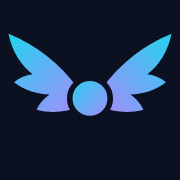
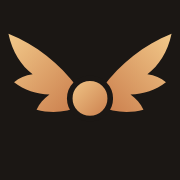
Use Aracne's colour palette across the whole site
CV, homelab and TFG (css/style.css): dark sepia at night and cream by
day, with Aracne's brown, amber and olive accents; the space photo is
toned sepia and the hero stars are cream/sepia (stack logos keep their
brand colours). Hermes switches to the same palette and takes its slot
colours from Aracne's status colours (Perfil is olive now). Fog,
favicon set, backlit logo, the hidden gate's wings and the theme-color
metas follow suit. Stylesheet version bumped.

Claude-Session: https://claude.ai/code/session_01HtGacBJGJVCiw1Z5b64gJd

Changed region(s): [[0.0278, 0.1667, 0.9722, 0.6667]]

diff --git a/css/style.css b/css/style.css
@@ -3,18 +3,19 @@
    ========================================================================== */
 
 :root {
-	--bg: #0b1120;
-	--bg-alt: #0f172a;
-	--surface: rgba(17, 26, 46, 0.78);
-	--surface-2: rgba(22, 33, 58, 0.85);
-	--border: rgba(51, 65, 99, 0.6);
-	--veil: rgba(8, 12, 24, 0.7);
-	--text: #e2e8f0;
-	--text-muted: #94a3b8;
-	--accent: #22d3ee;
-	--accent-2: #a78bfa;
-	--ok: #4ade80;
-	--accent-soft: rgba(34, 211, 238, 0.12);
+	/* Gama de Aracne: sepia oscuro de noche, crema de día; acentos marrón, ámbar y oliva */
+	--bg: #1b1714;
+	--bg-alt: #221d19;
+	--surface: rgba(36, 31, 27, 0.82);
+	--surface-2: rgba(42, 36, 32, 0.88);
+	--border: rgba(110, 90, 74, 0.45);
+	--veil: rgba(20, 16, 13, 0.74);
+	--text: #efe6dc;
+	--text-muted: #b3a597;
+	--accent: #d8a77f;
+	--accent-2: #e0b06a;
+	--ok: #9cc183;
+	--accent-soft: rgba(216, 167, 127, 0.12);
 	--shadow: 0 10px 30px -12px rgba(0, 0, 0, 0.6);
 
 	--radius: 14px;
@@ -25,19 +26,19 @@
 
 @media (prefers-color-scheme: light) {
 	:root {
-		--bg: #f8fafc;
-		--bg-alt: #f1f5f9;
-		--surface: rgba(255, 255, 255, 0.86);
-		--surface-2: rgba(241, 245, 249, 0.9);
-		--border: rgba(203, 213, 225, 0.8);
-		--veil: rgba(248, 250, 252, 0.85);
-		--text: #0f172a;
-		--text-muted: #475569;
-		--accent: #0891b2;
-		--accent-2: #7c3aed;
-		--ok: #16a34a;
-		--accent-soft: rgba(8, 145, 178, 0.1);
-		--shadow: 0 10px 30px -14px rgba(15, 23, 42, 0.18);
+		--bg: #f5efe8;
+		--bg-alt: #ede5db;
+		--surface: rgba(253, 251, 248, 0.86);
+		--surface-2: rgba(237, 229, 219, 0.9);
+		--border: rgba(221, 210, 197, 0.9);
+		--veil: rgba(245, 239, 232, 0.86);
+		--text: #2b2421;
+		--text-muted: #6d6058;
+		--accent: #8a5a3c;
+		--accent-2: #a06a24;
+		--ok: #5d7a46;
+		--accent-soft: rgba(138, 90, 60, 0.1);
+		--shadow: 0 10px 30px -14px rgba(60, 40, 25, 0.25);
 	}
 }
 
@@ -59,7 +60,7 @@ html::-webkit-scrollbar-track { background: var(--bg); }
 ::-webkit-scrollbar-thumb:horizontal { background: linear-gradient(90deg, var(--accent), var(--accent-2)) padding-box; }
 ::-webkit-scrollbar-thumb:hover { border-width: 2px; }
 ::-webkit-scrollbar-corner { background: transparent; }
-/* Firefox no admite degradados: pulgar cian sobre el fondo */
+/* Firefox no admite degradados: pulgar del color de acento sobre el fondo */
 @supports (-moz-appearance: none) {
 	:root { scrollbar-width: thin; scrollbar-color: var(--accent) var(--bg); }
 }
@@ -70,7 +71,7 @@ body::after { content: ""; position: fixed; pointer-events: none; }
 body::before {
 	inset: -24px; z-index: -3;
 	background: url("../images/space-bg.jpg") center / cover no-repeat;
-	filter: blur(3px) saturate(1.15);
+	filter: blur(3px) sepia(.65) saturate(.85);   /* la foto del espacio, en sepia */
 }
 body::after {
 	inset: 0; z-index: -2;
@@ -145,7 +146,7 @@ svg.filled { fill: currentColor; stroke: none; }
 /* Logo: silueta a contraluz (luz cian/violeta por detrás) */
 .logo-mark.logo-backlit {
 	width: 38px; height: 38px; padding: 0; overflow: hidden;
-	background: radial-gradient(circle at 50% 40%, rgba(34, 211, 238, .30), rgba(167, 139, 250, .16) 48%, transparent 74%), var(--surface-2);
+	background: radial-gradient(circle at 50% 40%, rgba(242, 201, 138, .34), rgba(201, 123, 74, .18) 48%, transparent 74%), var(--surface-2);
 }
 .logo-backlit img { display: block; width: 100%; height: 100%; object-fit: contain; }
 
@@ -745,12 +746,12 @@ code { font-family: var(--mono); font-size: 0.86em; background: var(--surface-2)
 /* Evolución del homelab (gráfico de RAM por nodo + hitos) */
 .evo {
 	--s0: #3987e5; --s1: #d95926; --s2: #199e70; --s3: #c98500;
-	--grid: rgba(148, 163, 184, 0.14); --axis: rgba(148, 163, 184, 0.35);
+	--grid: rgba(179, 165, 151, 0.14); --axis: rgba(179, 165, 151, 0.35);
 	position: relative; margin: 0; padding: 20px; border-radius: 20px;
 	background: var(--surface); border: 1px solid var(--border);
 }
 @media (prefers-color-scheme: light) {
-	.evo { --s0: #2a78d6; --s1: #eb6834; --s2: #1baf7a; --s3: #eda100; --grid: rgba(15, 23, 42, 0.08); --axis: rgba(15, 23, 42, 0.25); }
+	.evo { --s0: #2a78d6; --s1: #eb6834; --s2: #1baf7a; --s3: #eda100; --grid: rgba(43, 36, 33, 0.08); --axis: rgba(43, 36, 33, 0.25); }
 }
 .evo .s-0 { fill: var(--s0); background: var(--s0); }
 .evo .s-1 { fill: var(--s1); background: var(--s1); }

diff --git a/hermes/index.html b/hermes/index.html
@@ -5,7 +5,7 @@
 	<meta name="viewport" content="width=device-width, initial-scale=1, viewport-fit=cover" />
 	<title>Hermes · Selector de destinos</title>
 	<meta name="description" content="Hermes: el selector de destinos de Daniel Carballo. Elige en la rueda a dónde ir: Aracne, el perfil o cualquier web que añadas." />
-	<meta name="theme-color" content="#0b1120" media="(prefers-color-scheme: dark)" />
+	<meta name="theme-color" content="#1b1714" media="(prefers-color-scheme: dark)" />
 	<meta name="theme-color" content="#f5efe8" media="(prefers-color-scheme: light)" />
 	<link rel="icon" href="/favicon.ico" sizes="48x48" />
 	<link rel="icon" href="/favicon.svg" type="image/svg+xml" />
@@ -15,23 +15,28 @@
 	<link rel="preconnect" href="https://fonts.gstatic.com" crossorigin />
 	<link href="https://fonts.googleapis.com/css2?family=Cormorant+Garamond:ital,wght@0,500;0,600;1,400;1,500&family=Inter:wght@400;500;600&family=JetBrains+Mono:wght@400;500;700&display=swap" rel="stylesheet" />
 	<style>
-		/* Hermes: la noche del CV (cian/violeta, mono) tejida con la telaraña y la serif de Aracne.
-		   Modo claro = el crema de Aracne. */
+		/* Hermes: la gama de Aracne (sepia de noche, crema de día), su telaraña y su serif, con el
+		   prompt en mono del CV. */
 		:root {
-			--bg: #0b1120;
-			--bg-2: #0f172a;
-			--text: #e2e8f0;
-			--muted: #94a3b8;
-			--accent: #22d3ee;
-			--accent-2: #a78bfa;
-			--amber: #e3b787;
-			--web: rgba(148, 163, 184, 0.16);
-			--web-strong: rgba(148, 163, 184, 0.34);
-			--seg: rgba(17, 26, 46, 0.72);
-			--seg-line: rgba(148, 163, 184, 0.28);
-			--hub: rgba(11, 17, 32, 0.92);
-			--star: 226, 232, 240;
-			--fog: 120, 138, 168;      /* niebla gris azulada sobre la noche */
+			/* Gama de Aracne (sepia oscuro); los colores de las porciones salen de sus estados */
+			--bg: #1b1714;
+			--bg-2: #241f1b;
+			--text: #efe6dc;
+			--muted: #b3a597;
+			--accent: #d8a77f;
+			--accent-2: #e0b06a;
+			--amber: #e0b06a;
+			--olive: #9cc183;
+			--blue: #7fc0de;
+			--violet: #bba3e6;
+			--rose: #e58a7d;
+			--web: rgba(179, 165, 151, 0.16);
+			--web-strong: rgba(179, 165, 151, 0.34);
+			--seg: rgba(36, 31, 27, 0.74);
+			--seg-line: rgba(179, 165, 151, 0.28);
+			--hub: rgba(27, 23, 20, 0.92);
+			--star: 243, 227, 207;
+			--fog: 150, 135, 120;      /* niebla cálida sobre el sepia */
 			--fog-alpha: .30;
 			--shadow: 0 20px 60px -24px rgba(0, 0, 0, 0.8);
 			--serif: "Cormorant Garamond", Garamond, "Times New Roman", serif;
@@ -45,9 +50,13 @@
 				--bg-2: #ede5db;
 				--text: #2b2421;
 				--muted: #6d6058;
-				--accent: #0e7490;
-				--accent-2: #7c3aed;
-				--amber: #8a5a3c;
+				--accent: #8a5a3c;
+				--accent-2: #a06a24;
+				--amber: #a06a24;
+				--olive: #5d7a46;
+				--blue: #2c6e8f;
+				--violet: #7756a8;
+				--rose: #a6473b;
 				--web: rgba(110, 88, 70, 0.18);
 				--web-strong: rgba(80, 62, 50, 0.36);
 				--seg: rgba(253, 251, 248, 0.82);
@@ -275,9 +284,9 @@
 	/* Destinos fijos. Añade aquí los que quieras en todos tus dispositivos. */
 	const DEFAULTS = [
 		{ id: "aracne", name: "Aracne", url: "../aracne/", desc: "Crawling the web for work: tu panel de ofertas y candidaturas.", icon: "spider", color: "amber" },
-		{ id: "perfil", name: "Perfil", url: "../", desc: "Daniel Carballo Reyes · ingeniero de telecomunicación: CV, proyectos y contacto.", icon: "user", color: "cyan" },
+		{ id: "perfil", name: "Perfil", url: "../", desc: "Daniel Carballo Reyes · ingeniero de telecomunicación: CV, proyectos y contacto.", icon: "user", color: "green" },
 	];
-	const COLORS = { cyan: "var(--accent)", violet: "var(--accent-2)", amber: "var(--amber)", green: "#4ade80", rose: "#fb7185", blue: "#60a5fa" };
+	const COLORS = { cyan: "var(--accent)", violet: "var(--violet)", amber: "var(--amber)", green: "var(--olive)", rose: "var(--rose)", blue: "var(--blue)" };
 	const KEY = "hermes.links";
 	const MAX_CUSTOM = 8;
 	const R_OUT = 100, R_IN = 52, GAP = 1.4;   // unidades del viewBox; GAP en grados

diff --git a/js/hermes-gate.js b/js/hermes-gate.js
@@ -14,9 +14,9 @@
 		var o = overlay = document.createElement("div");
 		o.setAttribute("aria-hidden", "true");
 		o.style.cssText = "position:fixed;inset:0;z-index:2147483647;display:grid;place-items:center;pointer-events:none;" +
-			"background:radial-gradient(circle,rgba(11,17,32,.0),rgba(11,17,32,.85));opacity:0;transition:opacity .35s";
+			"background:radial-gradient(circle,rgba(27,23,20,0),rgba(27,23,20,.85));opacity:0;transition:opacity .35s";
 		o.innerHTML = reduce ? "" : '<svg viewBox="0 6 64 40" width="160" height="100" style="transition:transform .45s cubic-bezier(.5,0,.8,.4),opacity .35s .1s">' +
-			'<defs><linearGradient id="hg-g" x1="0" y1="0" x2="1" y2="1"><stop offset="0" stop-color="#22d3ee"/><stop offset="1" stop-color="#a78bfa"/></linearGradient></defs>' +
+			'<defs><linearGradient id="hg-g" x1="0" y1="0" x2="1" y2="1"><stop offset="0" stop-color="#f2c98a"/><stop offset="1" stop-color="#c97b4a"/></linearGradient></defs>' +
 			'<g fill="url(#hg-g)"><path id="hg-w" d="M27.5 31C21 22.5 13 16 3 12c1.4 6.6 4.6 11.4 8.6 14.4-2.6.4-4.8 1.2-6.6 2.8 3.6 2.8 8 4.2 12.6 4.4-2 1.4-3.6 3.2-4.6 5.4 5.2 1.4 10.6 1 15.8-1.4z"/>' +
 			'<use href="#hg-w" transform="matrix(-1 0 0 1 64 0)"/><circle cx="32" cy="35" r="7.2"/></g></svg>';
 		document.body.appendChild(o);

diff --git a/js/fog.js b/js/fog.js
@@ -4,9 +4,9 @@
 
    Opciones con atributos en la etiqueta <script>:
      data-density="1"              más (>1) o menos (<1) densa
-     data-dark="120,138,168"       color RGB en modo oscuro
-     data-light="226,232,240"      color RGB en modo claro
-     data-alpha-dark=".30"  data-alpha-light=".45"   opacidad base
+     data-dark="150,135,120"       color RGB en modo oscuro
+     data-light="252,248,242"      color RGB en modo claro
+     data-alpha-dark=".26"  data-alpha-light=".6"   opacidad base
 
    Va en una capa fija detrás del contenido (z-index -1): nunca tapa textos ni botones.
    Deriva despacio, sigue un poco al ratón (paralaje) y se remueve suave donde pasa el
@@ -21,8 +21,8 @@
 
 	function colors() {
 		return dark.matches
-			? { rgb: opt("dark", "120,138,168"), a: parseFloat(opt("alphaDark", ".30")) }
-			: { rgb: opt("light", "226,232,240"), a: parseFloat(opt("alphaLight", ".45")) };
+			? { rgb: opt("dark", "150,135,120"), a: parseFloat(opt("alphaDark", ".26")) }
+			: { rgb: opt("light", "252,248,242"), a: parseFloat(opt("alphaLight", ".6")) };
 	}
 
 	function start() {

diff --git a/homelab.html b/homelab.html
@@ -14,7 +14,8 @@
 	<meta property="og:image:width" content="1200" />
 	<meta property="og:image:height" content="630" />
 	<meta name="twitter:card" content="summary_large_image" />
-	<meta name="theme-color" content="#0b1120" />
+	<meta name="theme-color" content="#1b1714" media="(prefers-color-scheme: dark)" />
+	<meta name="theme-color" content="#f5efe8" media="(prefers-color-scheme: light)" />
 	<link rel="icon" href="/favicon.ico" sizes="48x48" />
 	<link rel="icon" href="/favicon.svg" type="image/svg+xml" />
 	<link rel="apple-touch-icon" href="/apple-touch-icon.png" />
@@ -22,7 +23,7 @@
 	<link rel="preconnect" href="https://fonts.googleapis.com" />
 	<link rel="preconnect" href="https://fonts.gstatic.com" crossorigin />
 	<link href="https://fonts.googleapis.com/css2?family=Inter:wght@400;500;600;700&family=JetBrains+Mono:wght@400;500;700&display=swap" rel="stylesheet" />
-	<link rel="stylesheet" href="css/style.css?v=f8a64741" />
+	<link rel="stylesheet" href="css/style.css?v=b15b345c" />
 	<script>document.documentElement.classList.add('js');</script>
 </head>
 <body>

diff --git a/index.html b/index.html
@@ -14,7 +14,8 @@
 	<meta property="og:image:width" content="1200" />
 	<meta property="og:image:height" content="630" />
 	<meta name="twitter:card" content="summary_large_image" />
-	<meta name="theme-color" content="#0b1120" />
+	<meta name="theme-color" content="#1b1714" media="(prefers-color-scheme: dark)" />
+	<meta name="theme-color" content="#f5efe8" media="(prefers-color-scheme: light)" />
 	<link rel="icon" href="/favicon.ico" sizes="48x48" />
 	<link rel="icon" href="/favicon.svg" type="image/svg+xml" />
 	<link rel="apple-touch-icon" href="/apple-touch-icon.png" />
@@ -22,7 +23,7 @@
 	<link rel="preconnect" href="https://fonts.googleapis.com" />
 	<link rel="preconnect" href="https://fonts.gstatic.com" crossorigin />
 	<link href="https://fonts.googleapis.com/css2?family=Inter:wght@400;500;600;700&family=JetBrains+Mono:wght@400;500;700&display=swap" rel="stylesheet" />
-	<link rel="stylesheet" href="css/style.css?v=f8a64741" />
+	<link rel="stylesheet" href="css/style.css?v=b15b345c" />
 	<script>document.documentElement.classList.add('js');</script>
 </head>
 <body>

diff --git a/tfg.html b/tfg.html
@@ -14,7 +14,8 @@
 	<meta property="og:image:width" content="1200" />
 	<meta property="og:image:height" content="630" />
 	<meta name="twitter:card" content="summary_large_image" />
-	<meta name="theme-color" content="#0b1120" />
+	<meta name="theme-color" content="#1b1714" media="(prefers-color-scheme: dark)" />
+	<meta name="theme-color" content="#f5efe8" media="(prefers-color-scheme: light)" />
 	<link rel="icon" href="/favicon.ico" sizes="48x48" />
 	<link rel="icon" href="/favicon.svg" type="image/svg+xml" />
 	<link rel="apple-touch-icon" href="/apple-touch-icon.png" />
@@ -22,7 +23,7 @@
 	<link rel="preconnect" href="https://fonts.googleapis.com" />
 	<link rel="preconnect" href="https://fonts.gstatic.com" crossorigin />
 	<link href="https://fonts.googleapis.com/css2?family=Inter:wght@400;500;600;700&family=JetBrains+Mono:wght@400;500;700&display=swap" rel="stylesheet" />
-	<link rel="stylesheet" href="css/style.css?v=f8a64741" />
+	<link rel="stylesheet" href="css/style.css?v=b15b345c" />
 	<script>document.documentElement.classList.add('js');</script>
 </head>
 <body>

diff --git a/js/sky.js b/js/sky.js
@@ -7,7 +7,7 @@
 	var anchor = wrap.querySelector('.hero-sky-anchor');
 	var ctx = canvas.getContext('2d');
 	var lightMq = window.matchMedia ? window.matchMedia('(prefers-color-scheme: light)') : { matches: false };
-	function starColor() { return lightMq.matches ? '#1e3a8a' : '#cfe6ff'; }
+	function starColor() { return lightMq.matches ? '#6b4a33' : '#f3e3cf'; }   // sepia de día, crema de noche
 
 	// Coordenadas normalizadas (0..1, y hacia abajo) y aristas de cada constelación
 	var CONSTELLATIONS = [
